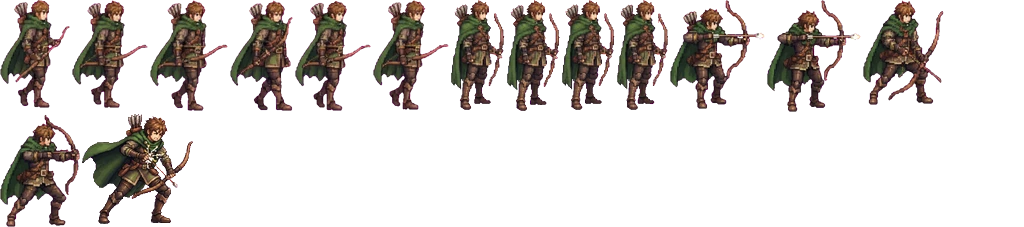
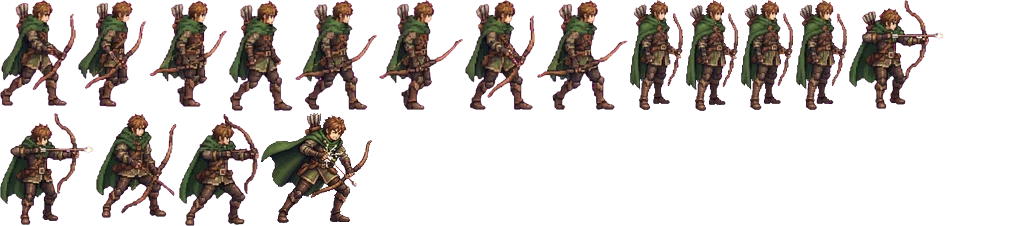
Nuevos ciclos de caminar de los 7 héroes
- build_anims.py acepta las hojas regeneradas de caminar (NEW_WALK) y elige
  solo los fotogramas coherentes (arma en la misma mano, mirando a la
  derecha); los que miran al revés se voltean (NEW_FLIP)
- Velocidad del ciclo según el número de fotogramas y menos balanceo
  artificial, ahora que los pasos vienen dibujados

Claude-Session: https://claude.ai/code/session_015RNUyaQ6fKR3Ufego5oPP2

diff --git a/www/js/anim_data.js b/www/js/anim_data.js
@@ -1,3 +1,3 @@
 /* Generado por tools/art/build_anims.py — no editar a mano. */
 'use strict';
-const HERO_ANIM = {"iop":{"bh":110,"walk":[[0,0,72,109,27.4,108.6],[74,0,72,109,27.7,108.1],[148,0,72,110,25.7,109.7],[222,0,72,111,25.3,110.3],[296,0,74,111,34.9,110.3],[372,0,72,112,26.6,111.4]],"idle":[[446,0,43,110,24.0,109.9],[491,0,55,111,32.7,110.4],[548,0,52,110,23.9,110.1],[602,0,50,110,25.2,109.9]],"attack":[[654,0,84,118,44.8,117.2],[740,0,82,120,42.3,119.8],[824,0,84,103,49.3,102.8],[910,0,81,103,33.8,102.8]],"hurt":[[0,122,93,110,35.7,110.0]]},"cra":{"bh":110,"walk":[[0,0,70,108,33.0,107.2],[72,0,76,108,32.4,107.7],[150,0,78,111,36.7,110.3],[230,0,63,111,42.0,110.8],[295,0,76,111,32.2,110.3],[373,0,76,110,30.3,109.7]],"idle":[[451,0,54,110,20.9,110.0],[507,0,53,111,20.8,110.3],[562,0,53,110,20.9,110.0],[617,0,51,110,20.1,110.0]],"attack":[[670,0,95,109,38.2,108.9],[767,0,94,112,36.0,111.1],[863,0,81,105,37.6,104.3],[0,114,80,113,35.0,112.5]],"hurt":[[82,114,111,110,52.8,110.0]]},"feca":{"bh":110,"walk":[[0,0,78,110,38.7,110.0],[80,0,78,111,39.5,110.4],[160,0,79,108,36.1,108.1],[241,0,78,110,39.6,110.0],[321,0,79,113,34.1,112.3],[402,0,70,110,34.0,109.6],[474,0,79,112,33.7,111.9]],"idle":[[555,0,62,110,33.6,110.0],[619,0,62,110,33.4,110.0],[683,0,62,110,33.3,110.0],[747,0,62,110,33.2,110.0]],"attack":[[811,0,77,109,44.2,108.8],[890,0,90,114,44.2,114.1],[0,116,90,112,44.2,110.9],[92,116,80,111,44.4,110.0]],"hurt":[[174,116,83,110,39.6,110.0]]},"sombra":{"bh":110,"walk":[[0,0,47,111,28.4,110.3],[49,0,55,109,29.7,108.6],[106,0,47,111,25.6,110.3],[155,0,50,109,25.0,108.6],[207,0,49,110,30.6,110.0],[258,0,50,110,27.9,110.0]],"idle":[[310,0,57,110,28.1,110.1],[369,0,57,110,28.0,109.9],[428,0,57,115,30.1,114.9],[487,0,65,110,28.1,109.9]],"attack":[[554,0,59,117,31.2,117.1],[615,0,118,110,43.7,110.0],[735,0,118,108,43.4,108.2]],"hurt":[[855,0,90,110,51.0,110.0]]},"domadora":{"bh":110,"walk":[[0,0,60,110,35.1,109.6],[62,0,60,111,34.4,110.9],[124,0,56,110,31.1,110.0],[182,0,60,109,33.7,108.7],[244,0,61,110,35.9,110.0],[307,0,59,111,33.9,110.9],[368,0,59,110,31.7,110.0]],"idle":[[429,0,60,110,35.9,110.0],[491,0,60,110,36.4,110.0],[553,0,60,110,35.9,110.0],[615,0,59,110,35.4,110.0]],"attack":[[676,0,52,114,29.2,113.6],[730,0,65,108,42.9,107.8],[797,0,71,130,42.3,129.8],[870,0,84,103,52.0,102.8]],"hurt":[[0,132,104,110,41.2,110.0]]},"artificiera":{"bh":110,"walk":[[0,0,56,111,26.9,110.9],[58,0,55,110,26.4,110.0],[115,0,51,110,25.4,109.4],[168,0,54,110,25.6,110.0]],"idle":[[224,0,54,110,27.2,110.0],[280,0,54,110,27.0,110.0],[336,0,54,110,27.2,110.0],[392,0,53,110,27.0,110.0]],"attack":[[447,0,57,111,29.5,110.5],[506,0,57,112,31.6,112.0],[565,0,48,109,23.2,109.0],[615,0,62,110,37.2,109.5]],"hurt":[[679,0,64,110,26.4,110.0]]},"berserker":{"bh":110,"walk":[[0,0,63,110,37.5,109.7],[65,0,61,111,24.1,110.3],[128,0,64,105,38.0,104.2],[194,0,74,112,31.7,111.3]],"idle":[[270,0,71,110,31.1,110.0],[343,0,72,110,31.5,110.0],[417,0,71,110,31.1,110.0],[490,0,72,110,31.6,110.0]],"attack":[[564,0,69,115,41.5,114.8],[635,0,81,107,41.7,106.8],[718,0,97,94,31.5,93.5],[817,0,76,111,31.7,110.2]],"hurt":[[895,0,70,110,29.7,110.0]]}};
+const HERO_ANIM = {"iop":{"bh":110,"walk":[[0,0,68,110,30.2,110.0],[70,0,67,108,28.3,108.1],[139,0,79,110,37.6,110.0],[220,0,69,112,30.5,111.1],[291,0,76,110,31.0,110.0],[369,0,68,112,30.2,111.5]],"idle":[[439,0,43,110,24.0,109.9],[484,0,55,111,32.7,110.4],[541,0,52,110,23.9,110.1],[595,0,50,110,25.2,109.9]],"attack":[[647,0,84,118,44.8,117.2],[733,0,82,120,42.3,119.8],[817,0,84,103,49.3,102.8],[903,0,81,103,33.8,102.8]],"hurt":[[0,122,93,110,35.7,110.0]]},"cra":{"bh":110,"walk":[[0,0,76,106,31.8,105.4],[78,0,69,107,27.6,107.0],[149,0,78,107,39.2,107.0],[229,0,64,111,30.7,110.0],[295,0,82,110,39.8,109.0],[379,0,84,110,33.5,109.0],[465,0,70,110,33.7,109.0],[537,0,91,110,44.5,109.0]],"idle":[[630,0,54,110,20.9,110.0],[686,0,53,111,20.8,110.3],[741,0,53,110,20.9,110.0],[796,0,51,110,20.1,110.0]],"attack":[[849,0,95,109,38.2,108.9],[0,113,94,112,36.0,111.1],[96,113,81,105,37.6,104.3],[179,113,80,113,35.0,112.5]],"hurt":[[261,113,111,110,52.8,110.0]]},"feca":{"bh":110,"walk":[[0,0,76,111,34.5,110.0],[78,0,77,109,35.7,108.9],[157,0,69,107,29.7,106.2],[228,0,85,114,41.3,113.8],[315,0,80,114,34.6,113.2]],"idle":[[397,0,62,110,33.6,110.0],[461,0,62,110,33.4,110.0],[525,0,62,110,33.3,110.0],[589,0,62,110,33.2,110.0]],"attack":[[653,0,77,109,44.2,108.8],[732,0,90,114,44.2,114.1],[824,0,90,112,44.2,110.9],[916,0,80,111,44.4,110.0]],"hurt":[[0,116,83,110,39.6,110.0]]},"sombra":{"bh":110,"walk":[[0,0,63,111,33.6,110.3],[65,0,67,108,34.9,107.6],[134,0,66,107,35.0,107.0],[202,0,69,107,33.4,107.0],[273,0,56,113,29.6,112.4],[331,0,65,110,33.9,109.7],[398,0,54,112,30.7,112.1],[454,0,61,112,28.9,111.8]],"idle":[[517,0,57,110,28.1,110.1],[576,0,57,110,28.0,109.9],[635,0,57,115,30.1,114.9],[694,0,65,110,28.1,109.9]],"attack":[[761,0,59,117,31.2,117.1],[822,0,118,110,43.7,110.0],[0,119,118,108,43.4,108.2]],"hurt":[[120,119,90,110,51.0,110.0]]},"domadora":{"bh":110,"walk":[[0,0,62,110,39.3,109.3],[64,0,62,110,38.9,109.3],[128,0,61,112,36.7,111.3],[191,0,64,109,39.5,109.0],[257,0,64,110,39.8,110.1],[323,0,59,111,35.6,110.4],[384,0,64,110,38.7,109.9],[450,0,65,110,40.1,110.1]],"idle":[[517,0,60,110,35.9,110.0],[579,0,60,110,36.4,110.0],[641,0,60,110,35.9,110.0],[703,0,59,110,35.4,110.0]],"attack":[[764,0,52,114,29.2,113.6],[818,0,65,108,42.9,107.8],[885,0,71,130,42.3,129.8],[0,132,84,103,52.0,102.8]],"hurt":[[86,132,104,110,41.2,110.0]]},"artificiera":{"bh":110,"walk":[[0,0,70,109,34.9,108.2],[72,0,64,110,29.8,109.4],[138,0,51,110,25.7,109.8],[191,0,51,110,26.0,109.8],[244,0,64,109,34.6,109.0],[310,0,54,111,26.5,110.6],[366,0,50,114,23.7,113.4],[418,0,51,111,25.9,110.2],[471,0,67,109,34.0,108.6],[540,0,56,111,27.0,110.2],[598,0,50,111,24.2,111.0],[650,0,53,111,27.2,110.6]],"idle":[[705,0,54,110,27.2,110.0],[761,0,54,110,27.0,110.0],[817,0,54,110,27.2,110.0],[873,0,53,110,27.0,110.0]],"attack":[[928,0,57,111,29.5,110.5],[0,116,57,112,31.6,112.0],[59,116,48,109,23.2,109.0],[109,116,62,110,37.2,109.5]],"hurt":[[173,116,64,110,26.4,110.0]]},"berserker":{"bh":110,"walk":[[0,0,71,110,30.9,110.0],[73,0,71,110,31.3,110.0],[146,0,74,110,29.5,109.5],[222,0,72,110,27.3,110.0],[296,0,69,110,28.0,109.5],[367,0,71,110,31.2,110.0]],"idle":[[440,0,71,110,31.1,110.0],[513,0,72,110,31.5,110.0],[587,0,71,110,31.1,110.0],[660,0,72,110,31.6,110.0]],"attack":[[734,0,69,115,41.5,114.8],[805,0,81,107,41.7,106.8],[888,0,97,94,31.5,93.5],[0,117,76,111,31.7,110.2]],"hurt":[[78,117,70,110,29.7,110.0]]}};

diff --git a/www/js/art.js b/www/js/art.js
@@ -101,7 +101,7 @@ function heroAnimPose(cls, o) {
   if (o.hurt > 0) return ['hurt', 0];
   const atk = o.swing > 0 ? 1 - o.swing / 0.2 : o.shot > 0 ? 1 - o.shot / 0.15 : -1;
   if (atk >= 0) return ['attack', Math.min(A.attack.length - 1, Math.floor(atk * A.attack.length))];
-  if (o.moving) return ['walk', Math.floor(o.walkT * 9) % A.walk.length];
+  if (o.moving) return ['walk', Math.floor(o.walkT * Math.max(8, A.walk.length * 1.45)) % A.walk.length];
   return ['idle', Math.floor(o.t * 4) % A.idle.length];
 }
 // Dibuja un fotograma con los pies en (o.x, o.y); true si se ha podido
@@ -115,9 +115,9 @@ function drawHeroAnim(g, o) {
   g.save();
   // zancada: pequeño rebote y balanceo encima de los fotogramas de caminar
   const stride = pose === 'walk' ? o.walkT * 12 : 0;
-  g.translate(o.x, o.y - (pose === 'walk' ? Math.abs(Math.sin(stride)) * 2.6 : 0));
+  g.translate(o.x, o.y - (pose === 'walk' ? Math.abs(Math.sin(stride)) * 1.2 : 0));
   g.globalAlpha = o.alpha ?? 1;
-  if (pose === 'walk') g.rotate(Math.sin(stride) * 0.045 + face * 0.05);
+  if (pose === 'walk') g.rotate(Math.sin(stride) * 0.015 + face * 0.03);
   g.scale(face, 1);
   if (HD2D.active && g === ctx) {
     const hpx = Math.max(8, Math.round(c.height * k * SPR.scale));

diff --git a/tools/art/build_anims.py b/tools/art/build_anims.py
@@ -65,6 +65,13 @@ def shrink(im, s):
 CLIP_FWD = {'feca': 0.42, 'cra': 0.6}  # cuánto puede asomar el arma por delante (fracción de la altura)
 
 
+# Ciclos de caminar regenerados (hojas en el orden de clase de NEW_ORDER): índice de fotogramas a usar
+NEW_ORDER = ['iop', 'cra', 'feca', 'sombra', 'domadora', 'artificiera', 'berserker']
+NEW_WALK = {'iop': [4, 5, 6, 8, 10, 11], 'cra': [3, 4, 5, 6, 7, 8, 9, 10], 'feca': [0, 2, 3, 8, 10],
+            'sombra': None, 'domadora': None, 'artificiera': None, 'berserker': None}
+NEW_FLIP = {'feca': [2, 3]}  # fotogramas de la hoja que miran a la izquierda: se voltean
+
+
 def clip_body(im, ax, ay, fwd=0.68, back=0.55):
     """Quita los efectos dibujados lejos del cuerpo (rastros de flechas, rayos, dagas lanzadas):
     solo se conserva lo que cabe en una caja alrededor del personaje y su arma."""
@@ -78,14 +85,20 @@ def clip_body(im, ax, ay, fwd=0.68, back=0.55):
     return Image.fromarray(a), ax - xs.min(), ay - ys.min()
 
 
-def build(src, www):
+def build(src, www, walk_src=None):
     out_dir = os.path.join(www, 'img/heroes/anim'); os.makedirs(out_dir, exist_ok=True)
     data = {}
     for cls, (folder, poses) in PLAN.items():
         sheets = sorted(glob.glob(os.path.join(src, folder, '*', '*.jpg')))
         placed = []
         for pose, (si, keep) in poses.items():
-            fr = frames(sheets[si])
+            if pose == 'walk' and walk_src:
+                fr = frames(walk_src[NEW_ORDER.index(cls)])
+                for i in NEW_FLIP.get(cls, []):
+                    f = fr[i]; f['img'] = f['img'].transpose(Image.FLIP_LEFT_RIGHT); f['ax'] = f['img'].width - 1 - f['ax']
+                keep = NEW_WALK[cls]
+            else:
+                fr = frames(sheets[si])
             if keep is not None: fr = [fr[i] for i in keep]
             s = BODY_PX / float(np.median([f['bh'] for f in fr]))
             for f in fr:
@@ -111,4 +124,4 @@ def build(src, www):
 
 
 if __name__ == '__main__':
-    build(sys.argv[1], sys.argv[2])
+    build(sys.argv[1], sys.argv[2], open(sys.argv[3]).read().split('\n') if len(sys.argv) > 3 else None)
